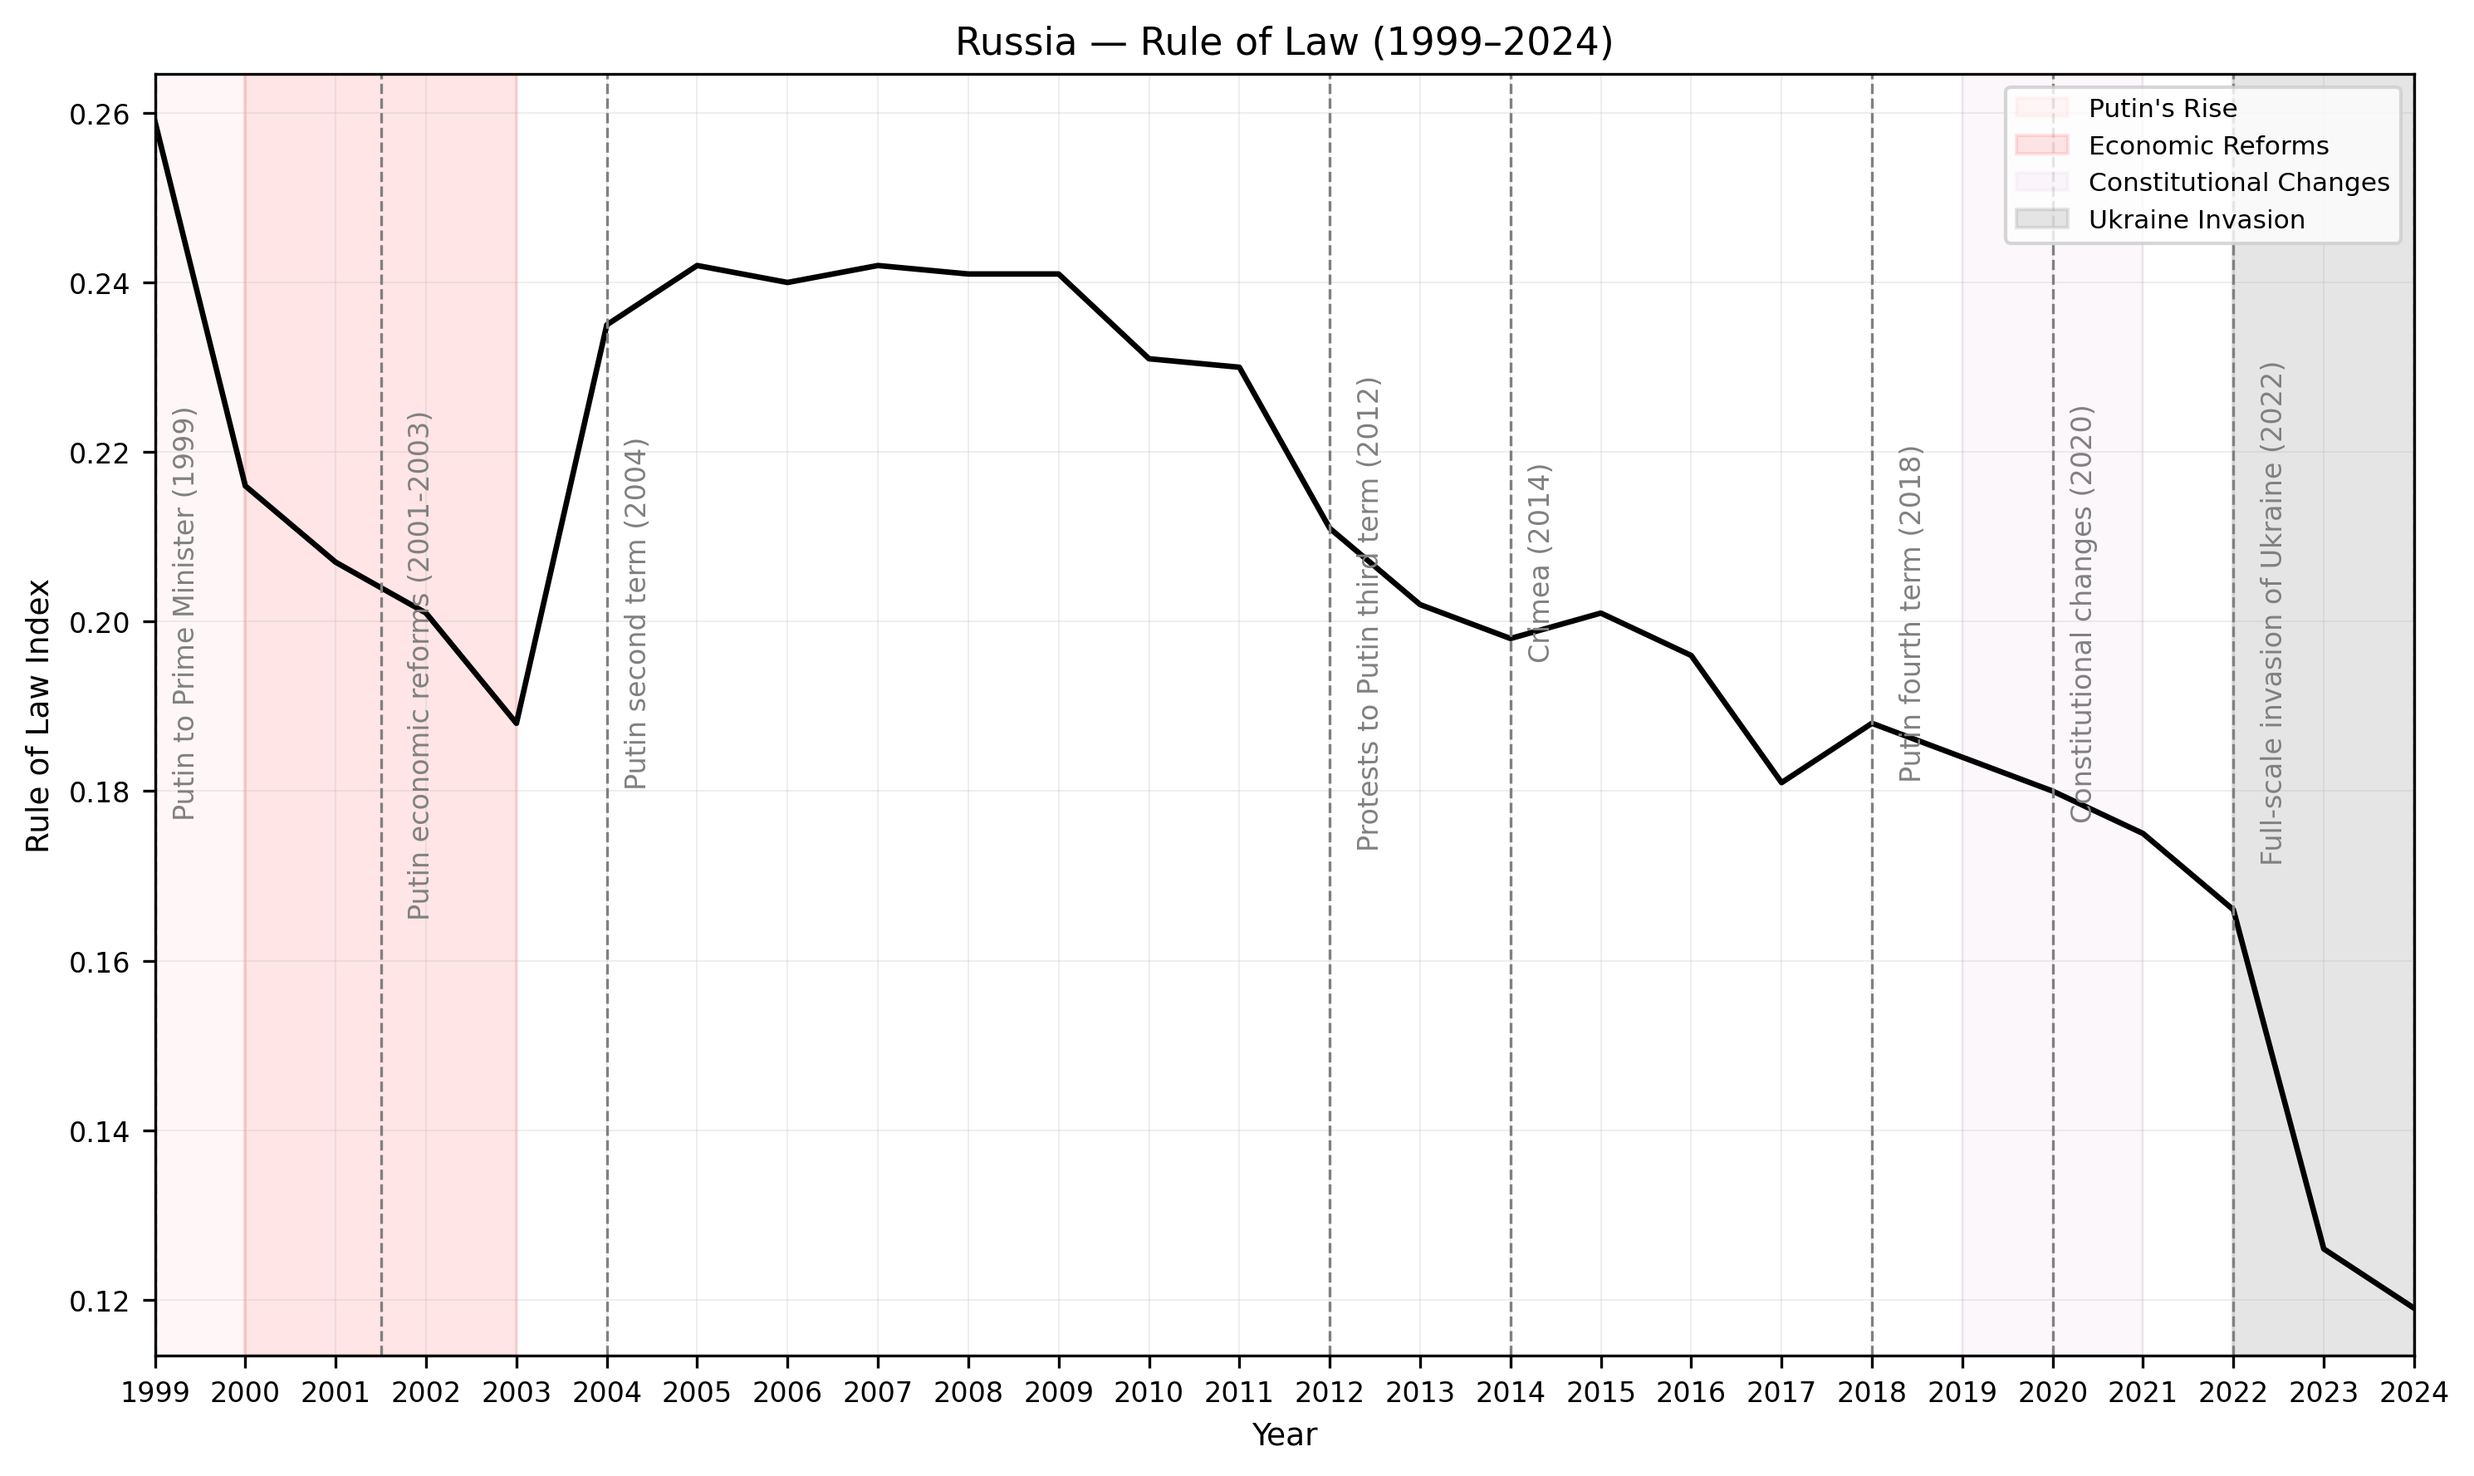
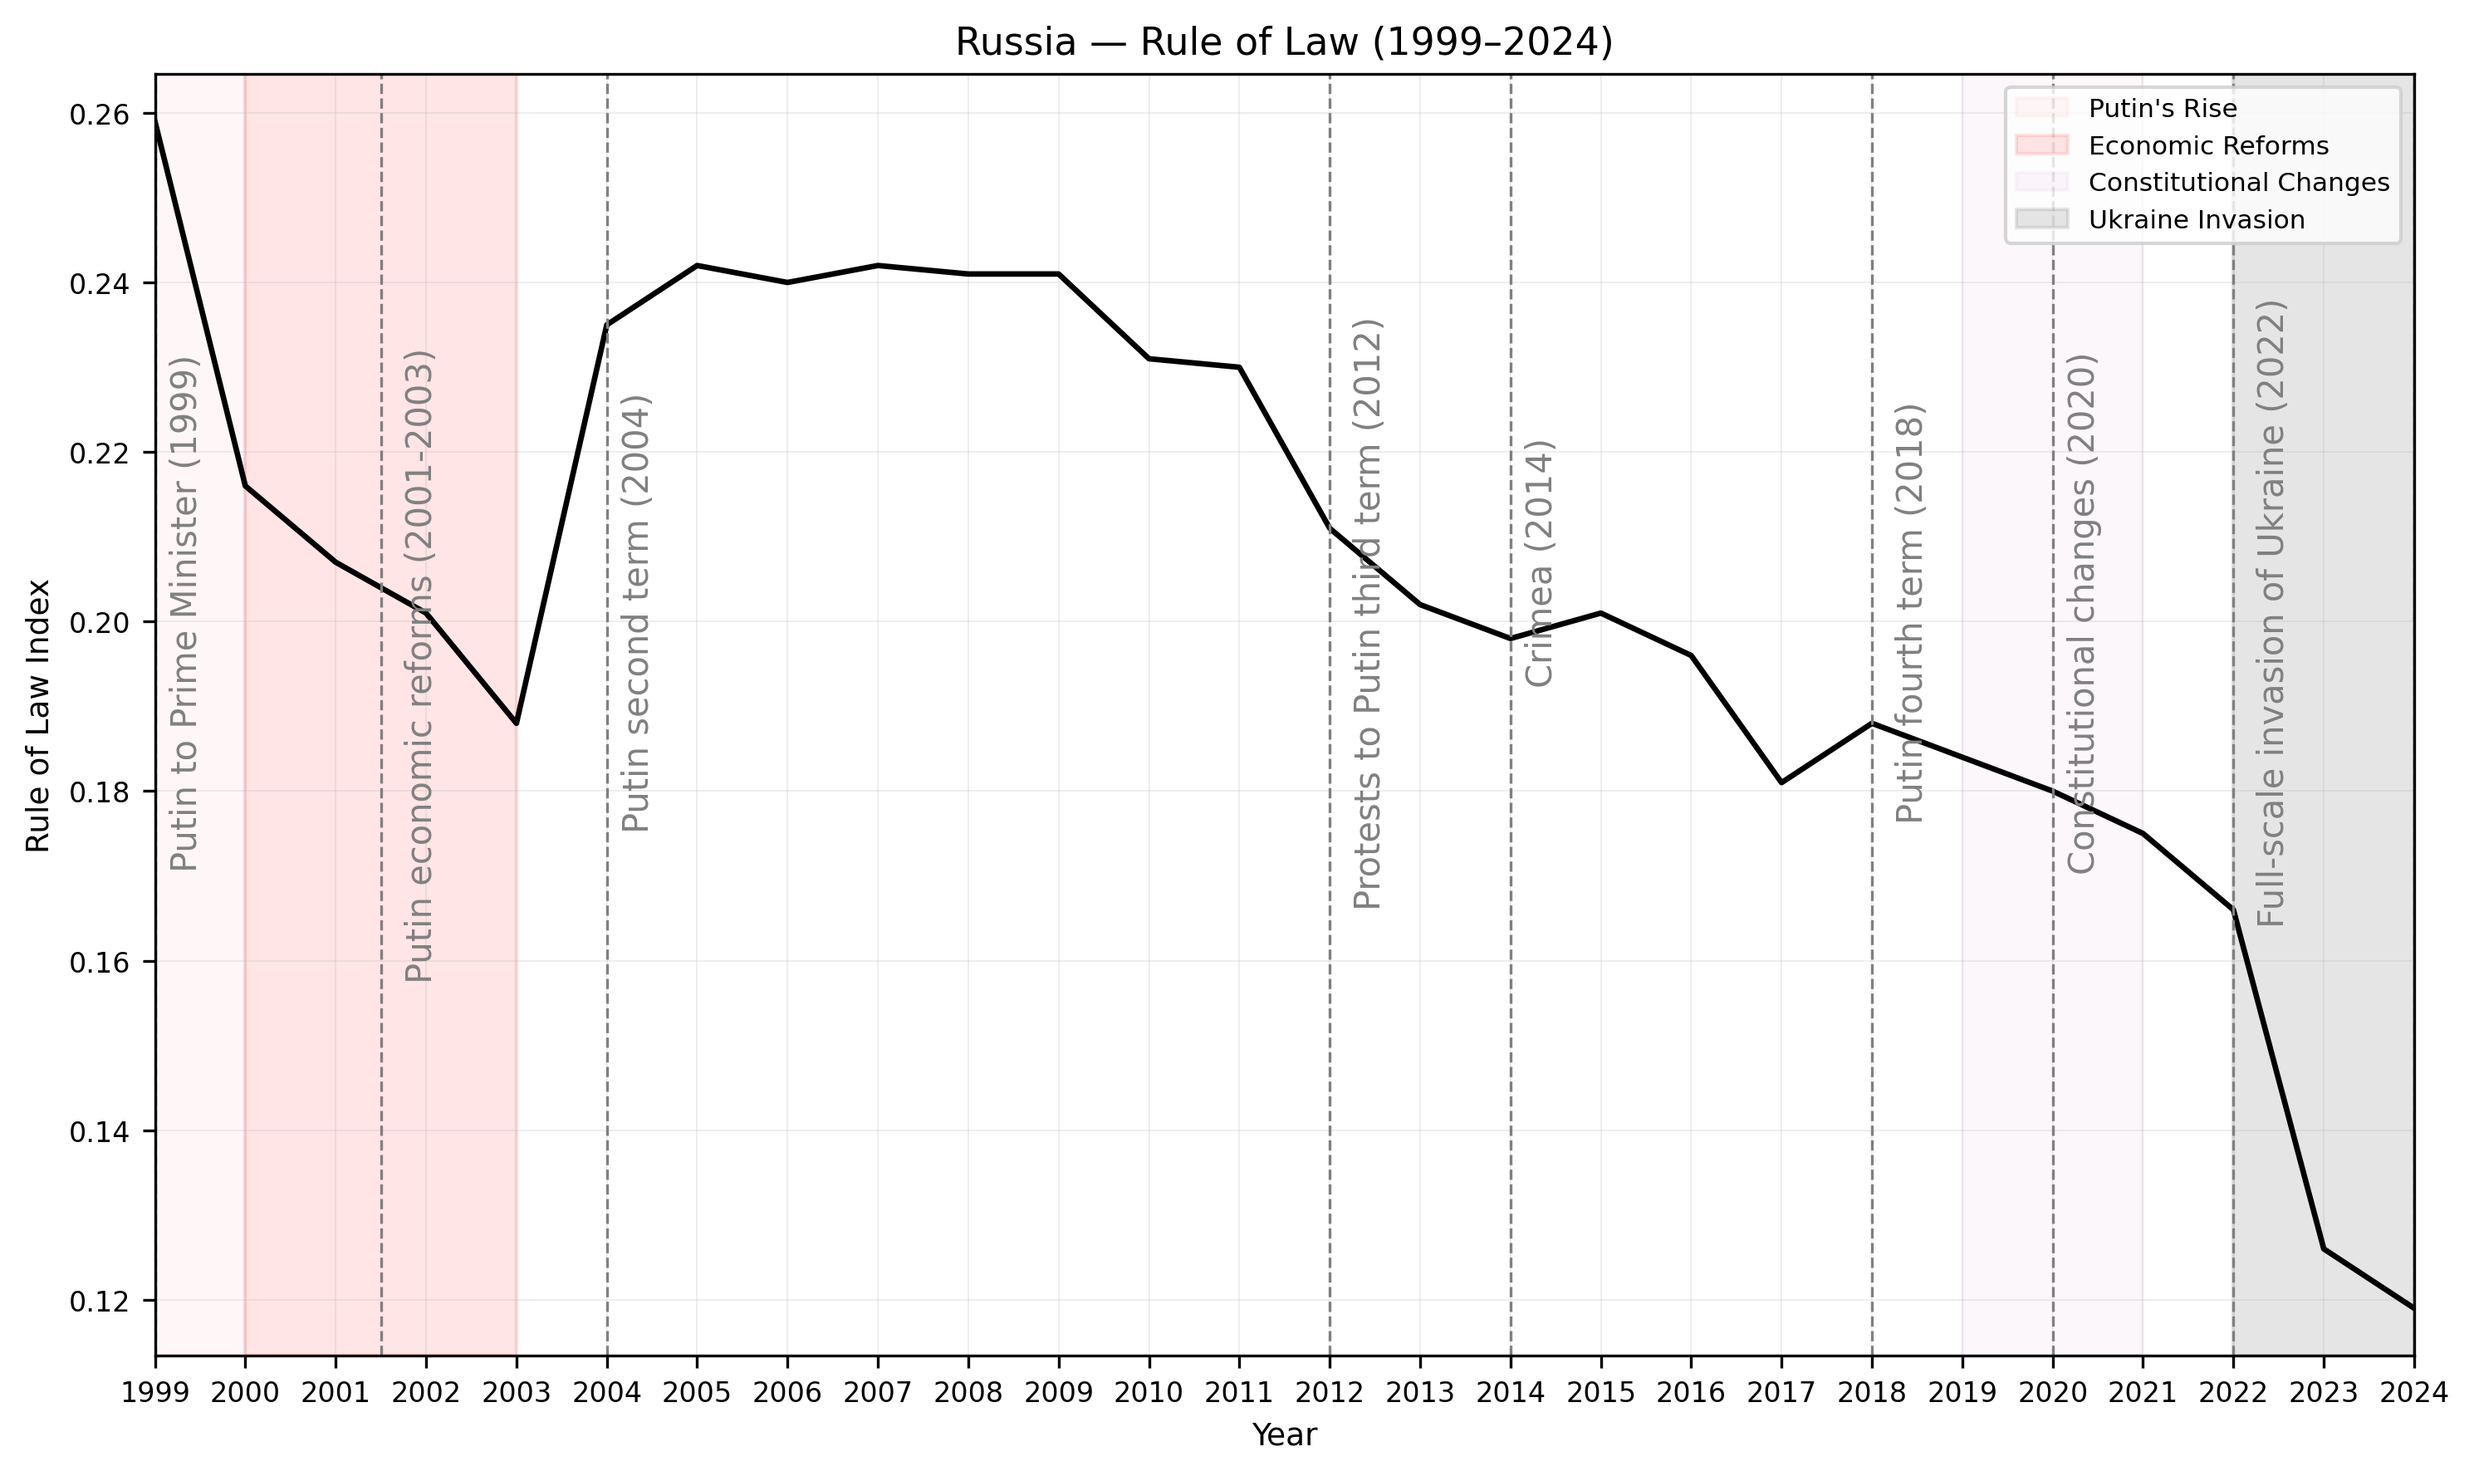
font changes to fig 2

diff --git a/lab06_rule_of_law_group_project/src/plot_rol_figures.py b/lab06_rule_of_law_group_project/src/plot_rol_figures.py
@@ -208,7 +208,7 @@ def fig2_russia(df, col_entity, col_year, col_rol, outpath):
 
         ax.text(x + xoff, y_lab, label, 
                 rotation=90, va="center", ha="center", 
-                color="grey", fontsize=8, clip_on=True)
+                color="grey", fontsize=10, clip_on=True)
 
     #label legend
     ax.legend(loc="upper right", fontsize=7.5)
